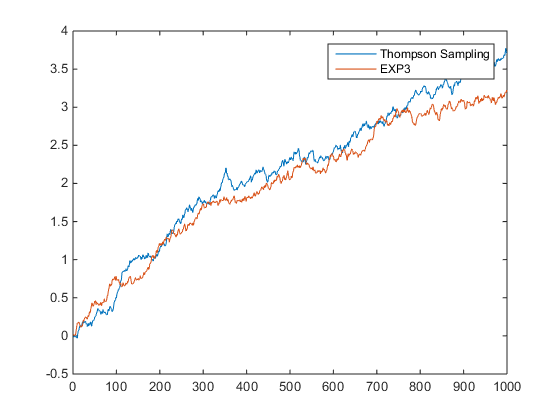
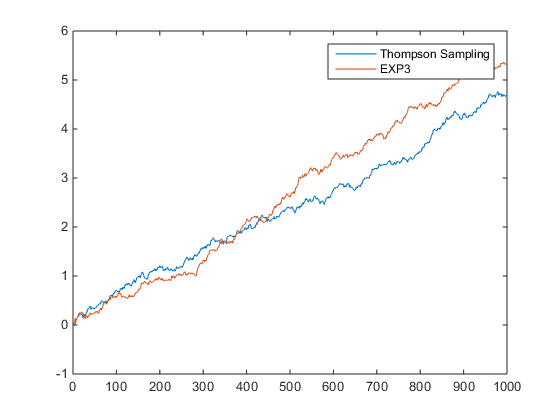
Testing other params

diff --git a/TP3/Report_3.tex b/TP3/Report_3.tex
@@ -30,7 +30,7 @@
 
 \begin{figure}[H]
 \centering
-\noindent\includegraphics[scale=0.7]{Q1-regrets.png}
+\noindent\includegraphics[scale=0.6]{Q1-regrets.png}
 \caption{Regrets for EXP3 and EWF strategy}
 \end{figure}
 
@@ -41,17 +41,43 @@
 
 \begin{figure}[H]
 \centering
-\noindent\includegraphics[scale=0.7]{Q2-probas.png}
+\noindent\includegraphics[scale=0.6]{Q2-probas.png}
 \caption{Convergence of empirical probabilities at horizon 500}
 \end{figure}
 
 \begin{figure}[H]
 \centering
-\noindent\includegraphics[scale=0.7]{Q2-rewards.png}
+\noindent\includegraphics[scale=0.6]{Q2-rewards.png}
 \caption{Convergence of the mean reward for player A}
 \end{figure}
 
-Even if the horizon may be not enough large, we see on Figure 2 that the probabilities seem to converge towards the Nash equilibrium $(p_a^*, p_b^*)$. Furthermore, we see more easily on the graph that the empirical mean for player A converges towards the value of the game, which is around 0,4.
+Even if the horizon may be not enough large, we see on Figure 2 that the probabilities seem to converge towards the Nash equilibrium $(p_a^*, p_b^*)$. Furthermore, we see more easily on the graph that the empirical mean for player A converges towards the value of the game, which is around 0,4.\\
+
+If we increase $\eta$, we state that the convergence is faster, but the equilibrium changes. For example, for $\eta=\beta=5$ A would always chose 2 from a certain point, and B 1.
+
+\begin{figure}[H]
+	\centering
+	\noindent\includegraphics[scale=0.6]{Q2-probas-eta05.png}
+	\caption{Convergence of empirical probabilities at horizon 500 for $\eta=\beta=0,5$}
+\end{figure}
+
+\begin{figure}[H]
+	\centering
+	\noindent\includegraphics[scale=0.6]{Q2-rewards-eta05.png}
+	\caption{Convergence of the mean reward for player A for $\eta=\beta=0,5$}
+\end{figure}
+
+\begin{figure}[H]
+	\centering
+	\noindent\includegraphics[scale=0.6]{Q2-probas-eta5.png}
+	\caption{Convergence of empirical probabilities at horizon 500 for $\eta=\beta=5$}
+\end{figure}
+
+\begin{figure}[H]
+	\centering
+	\noindent\includegraphics[scale=0.6]{Q2-rewards-eta5.png}
+	\caption{Convergence of the mean reward for player A for $\eta=\beta=5$}
+\end{figure}
 
 \section{Stochastic bandit or adversarial bandit ?}
 
@@ -87,8 +113,7 @@ And here is what we obtained :
 	\caption{Regret curves for Thompson Sampling and Exp3 strategies on another problem}
 \end{figure}
 
-Here, at horizon 500, Exp3 has done a little better than Thompson Sampling.
-
+Here, at horizon 500, there is not a large difference between Exp3 and Thompson Sampling.
 
 
 \end{document}
